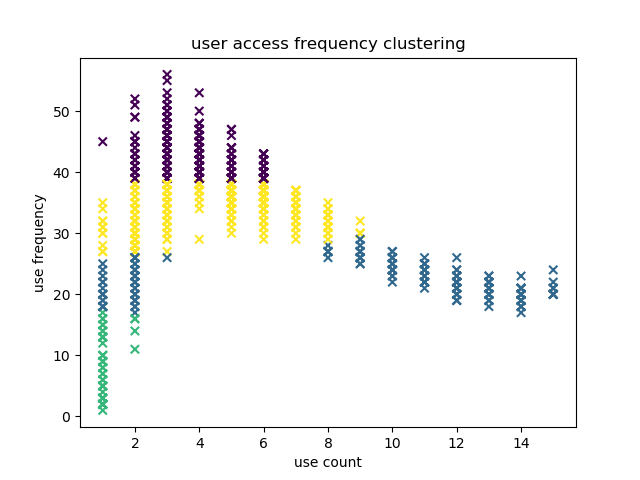
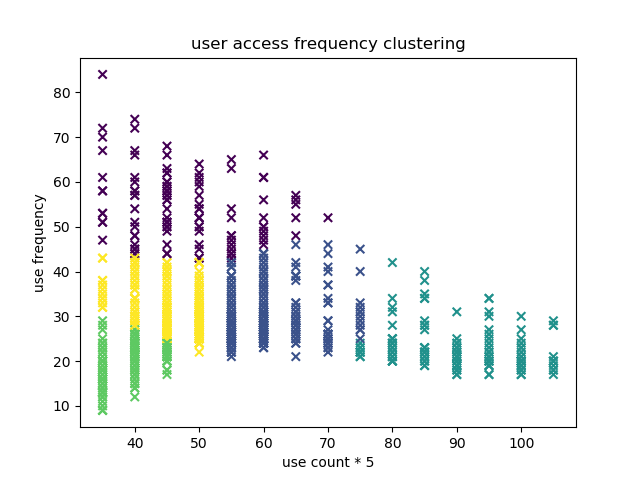
update

diff --git a/com.ten.aditum/personas/AccessFrequencyClusteringModel.py b/com.ten.aditum/personas/AccessFrequencyClusteringModel.py
@@ -12,6 +12,15 @@ import BackRemoteApi
 # 保存的临时分析图片的名字
 image_path = os.getcwd() + '\\accessFrequencyClustering.png'
 
+# 日期权重增加
+day_count_power = 5
+
+# 聚类中心
+clustering = 5
+
+# 1展示图片 0不展示
+show = 1
+
 
 def initPersonData():
     """
@@ -44,6 +53,8 @@ def initEntitySet(personAccessTimeList):
     for personAccessTime in personAccessTimeList:
         count = personAccessTime.averageDailyFrequencyCount
         frequency = personAccessTime.averageDailyFrequency
+        # 权重升级: 天数*day_count_power
+        count *= day_count_power
         # 添加数据集
         frequencyEntity = [count, frequency]
         frequencyEntitySet.append(frequencyEntity)
@@ -72,7 +83,7 @@ def showAndSave(entitySet, y_pred, show=0):
     yData = [n[1] for n in entitySet]
     plt.scatter(xData, yData, c=y_pred, marker='x')
     plt.title("user access frequency clustering")
-    plt.xlabel("use count")
+    plt.xlabel("use count * " + str(day_count_power))
     plt.ylabel("use frequency")
     plt.savefig(image_path)
     # 图片展示
@@ -114,10 +125,10 @@ def run():
     frequencyEntitySet = initEntitySet(personAccessTimeList)
 
     # 聚类分析
-    y_pred = kmeansClustering(frequencyEntitySet, 4)
+    y_pred = kmeansClustering(frequencyEntitySet, clustering)
 
     # 可视化结果并保存图片
-    showAndSave(frequencyEntitySet, y_pred, show=0)
+    showAndSave(frequencyEntitySet, y_pred, show=show)
 
     # print("用户门禁使用依赖度聚类分析...结束")
 

diff --git a/com.ten.aditum/personas/DeviceCountClusteringModel.py b/com.ten.aditum/personas/DeviceCountClusteringModel.py
@@ -88,7 +88,7 @@ def run():
     # print("设备T+1访问热度聚类分析...开始")
 
     deviceCountList = initDeviceCountData()
-    # print(deviceCountList)
+    print(deviceCountList)
 
     # print("数据获取成功，开始分析...")
 
@@ -99,7 +99,7 @@ def run():
     y_pred = kmeansClustering(countEntitySet, 4)
 
     # 可视化结果并保存图片
-    showAndSave(countEntitySet, y_pred, show=0)
+    showAndSave(countEntitySet, y_pred, show=1)
 
     # print("设备T+1访问热度聚类分析...结束")
 

diff --git a/com.ten.aditum/personas/AccessTimeClusteringModel.py b/com.ten.aditum/personas/AccessTimeClusteringModel.py
@@ -122,10 +122,10 @@ def run():
     timeEntitySet = initEntitySet(personAccessTimeList)
 
     # 聚类分析
-    y_pred = kmeansClustering(timeEntitySet, 3)
+    y_pred = kmeansClustering(timeEntitySet, 4)
 
     # 可视化结果并保存图片
-    showAndSave(timeEntitySet, y_pred, show=0)
+    showAndSave(timeEntitySet, y_pred, show=1)
 
     # print("用户时间行为偏好聚类分析...结束")
 
